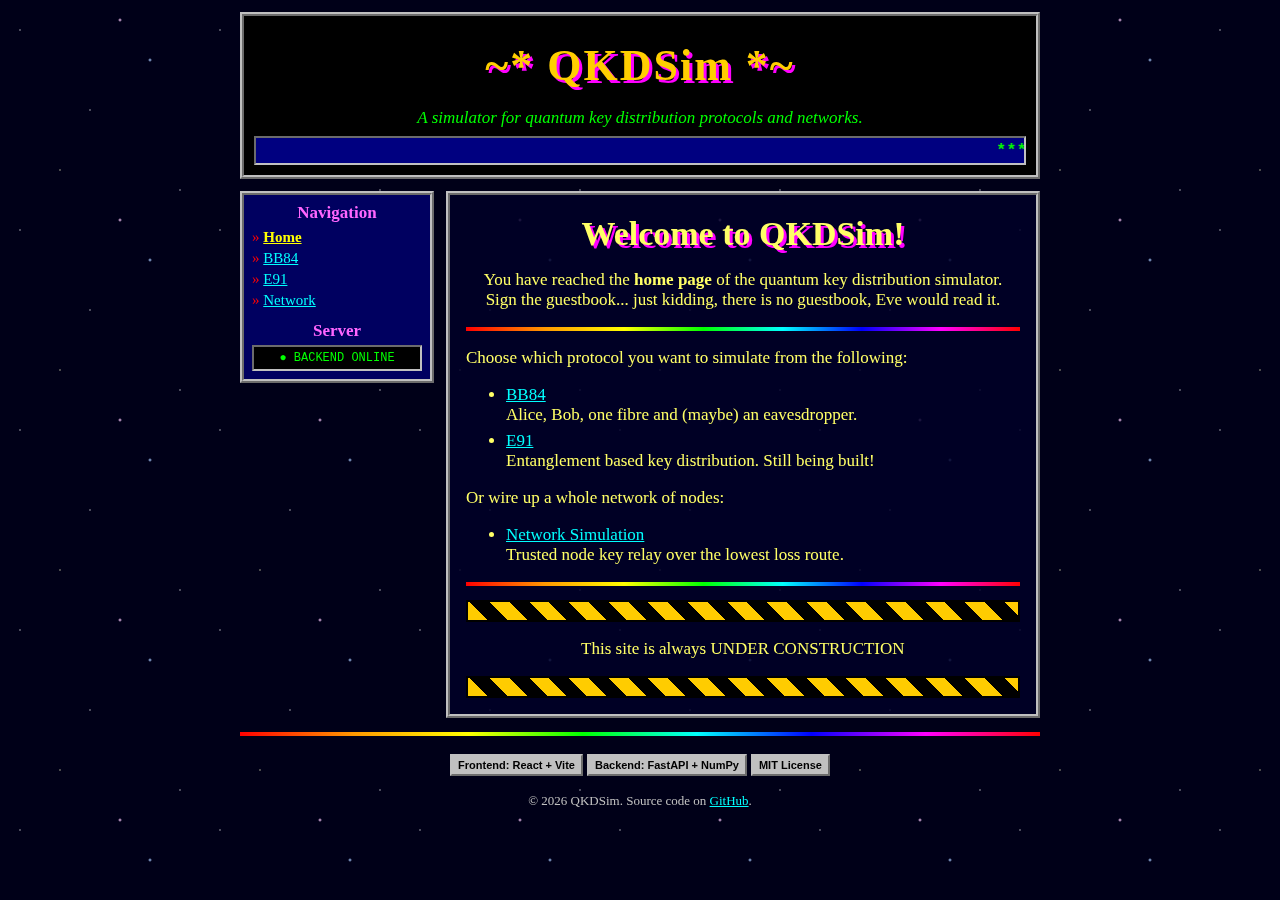
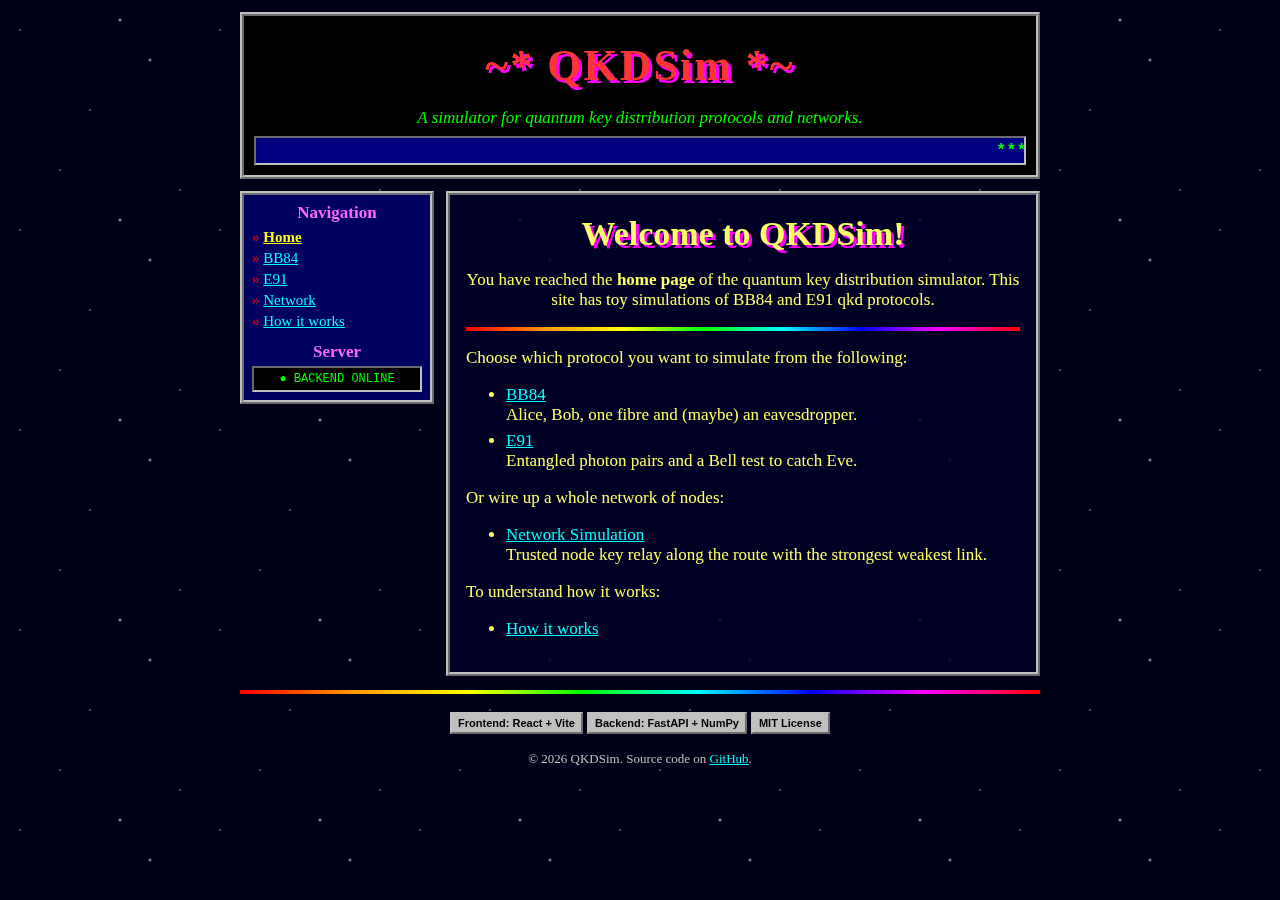
changes lol

diff --git a/frontend/src/components/networkmap.jsx b/frontend/src/components/networkmap.jsx
@@ -248,8 +248,8 @@ export default function NetworkMap() {
         <>
             <h1 className="rainbow">Network Simulation</h1>
             <p>
-                Build a network of <b>trusted nodes</b> joined by fibres. The server finds the lowest loss
-                route from the sender to the receiver, runs BB84 over every link on it and relays the key
+                Build a network of <b>trusted nodes</b> joined by fibres. The server finds the route from the
+                sender to the receiver whose worst link has the lowest loss, runs BB84 over every link on it and relays the key
                 hop by hop. Put Eve on a link and watch the whole route fall over!
             </p>
 

diff --git a/frontend/src/components/TitleScreen.jsx b/frontend/src/components/TitleScreen.jsx
@@ -22,7 +22,7 @@ export default function TitleScreen(){
             <ul className="links">
                 <li>
                     <a href="#network">Network Simulation</a> <span className="new blink">NEW!</span><br />
-                    Trusted node key relay over the lowest loss route.
+                    Trusted node key relay along the route with the strongest weakest link.
                 </li>
             </ul>
             <p>To understand how it works:</p>

diff --git a/frontend/src/components/howitworks.jsx b/frontend/src/components/howitworks.jsx
@@ -13,7 +13,7 @@ export default function HowItWorks() {
 
             {/* TODO: Fibre loss. Attenuation, distance, dark counts. */}
 
-            {/* TODO: Networks. Trusted nodes, Dijkstra lowest loss route, XOR key relay. */}
+            {/* TODO: Networks. Trusted nodes, modified Dijkstra (route whose worst link has the lowest loss), XOR key relay. */}
 
             {/* TODO: References. See docs/refs.bib. */}
         </>

diff --git a/README.md b/README.md
@@ -22,7 +22,7 @@ QKDSim is a simulator for quantum key distribution (QKD): ways for two parties t
 
 - **BB84 over a single fibre.** Choose the number of qubits Alice sends, the fibre length and its attenuation, and optionally put an eavesdropper (Eve) on the line. The simulation models photon loss, detector dark counts, basis sifting, error correction and privacy amplification, and reports the qubit error rate (QBER), the secure key rate and the final secure key. If the error rate is too high for any secure key to be left, the run is aborted.
 - **E91 over a single fibre.** A source next to Alice makes entangled photon pairs and sends one photon of each pair down the fibre to Bob. Both measure at random polariser angles. Pairs with matching angles become the key, and a CHSH Bell test on four other angle combinations checks the photons were still entangled. Without Eve the Bell value is S ≈ 2√2 ≈ 2.83. Eve measuring the photons breaks the entanglement, S drops to 2 or below and the run is aborted.
-- **Networks of trusted nodes.** Build a network of nodes joined by fibre links, each with its own length, attenuation and optional eavesdropper. The simulator finds the lowest loss route between a sender and a receiver with Dijkstra's algorithm, runs BB84 over every link on that route and relays the key hop by hop, XOR-encrypting it with each link's key. The route is drawn on a map with the error rate of each link.
+- **Networks of trusted nodes.** Build a network of nodes joined by fibre links, each with its own length, attenuation and optional eavesdropper. A route's key rate is only as good as its worst link, so the simulator uses a modified Dijkstra's algorithm to find the route between a sender and a receiver whose worst link has the lowest loss (total loss breaks ties). It runs BB84 over every link on that route and relays the key hop by hop, XOR-encrypting it with each link's key. The route is drawn on a map with the error rate of each link.
 
 - Results are random, so two runs with the same settings give slightly different numbers.
 
@@ -41,15 +41,16 @@ source .venv/bin/activate
 # Windows
 .venv\Scripts\activate
 
-# Intall package dependencies
-pip install -e .[test]
+# Install package dependencies
+pip install -e "./backend[test]"
 ```
 
-`-e` installs in editable mode, linking to `src/` so source changes reflect immediately. `.[test]` pulls project dependencies plus pytest.
+`-e` installs in editable mode, linking to `backend/src/` so source changes reflect immediately. `[test]` pulls project dependencies plus pytest.
 
 ### Tests
 
 ```bash
+cd backend
 pytest
 ```
 
